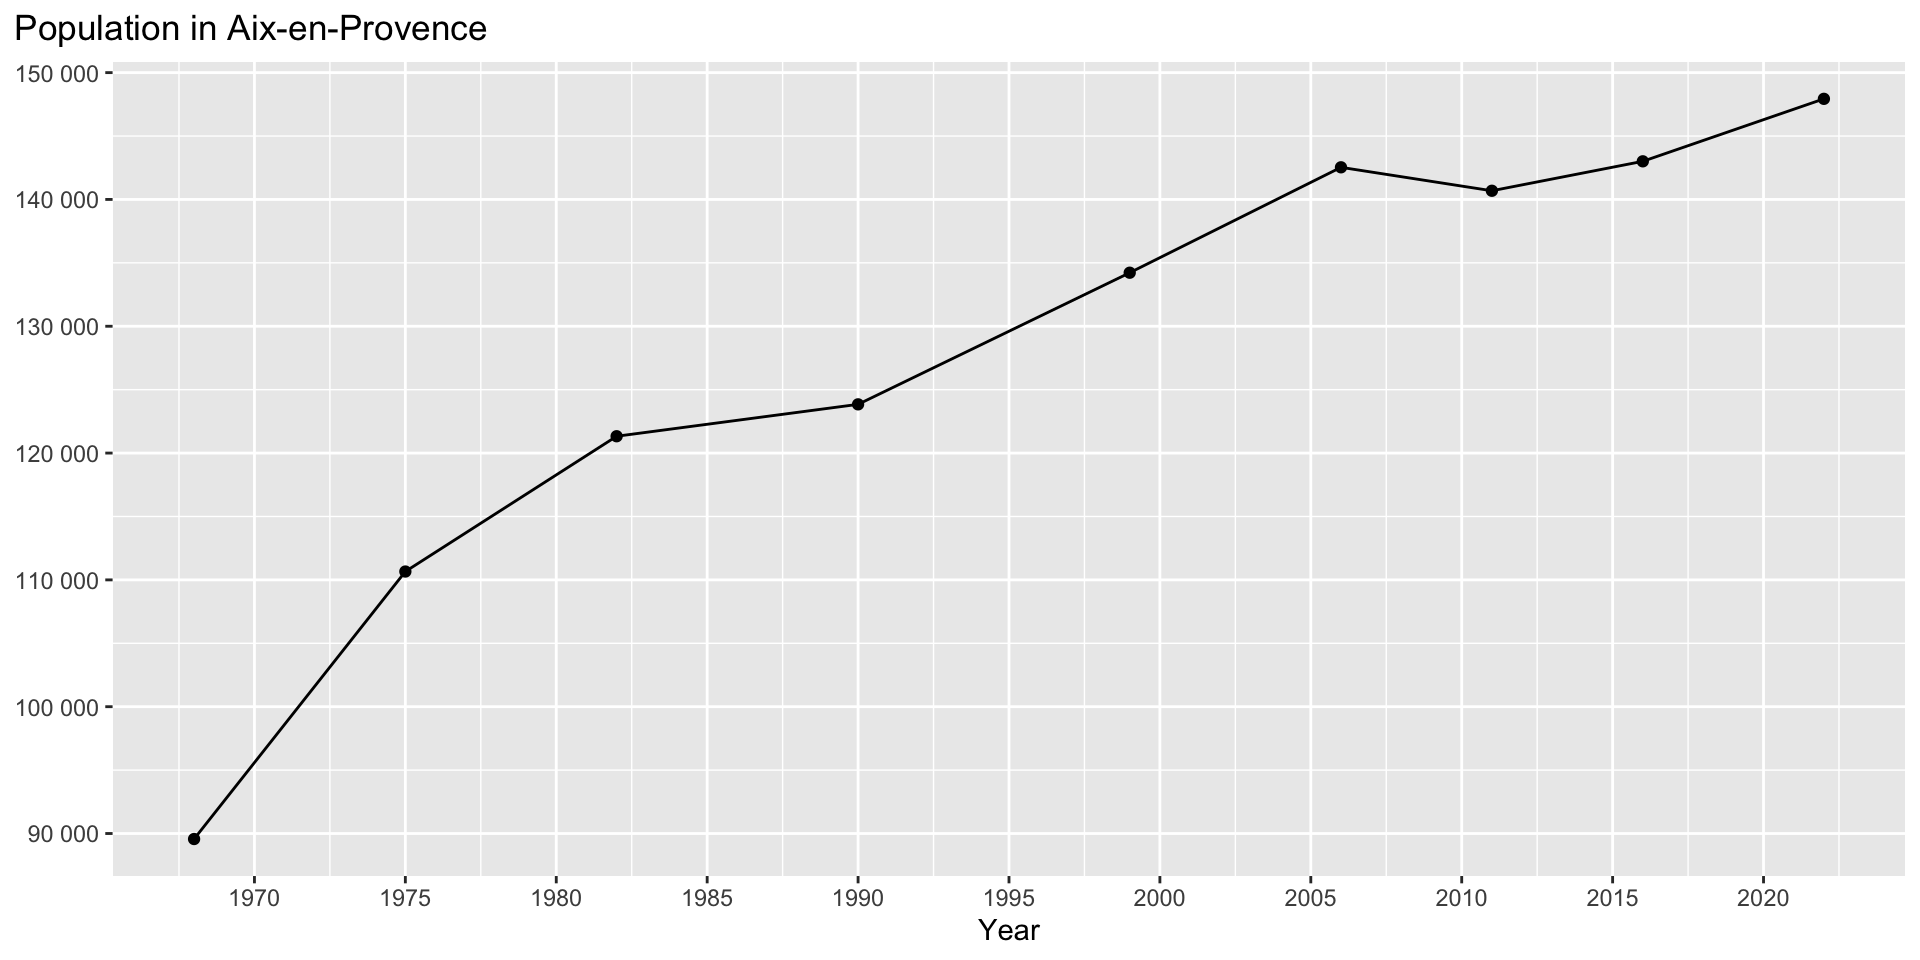
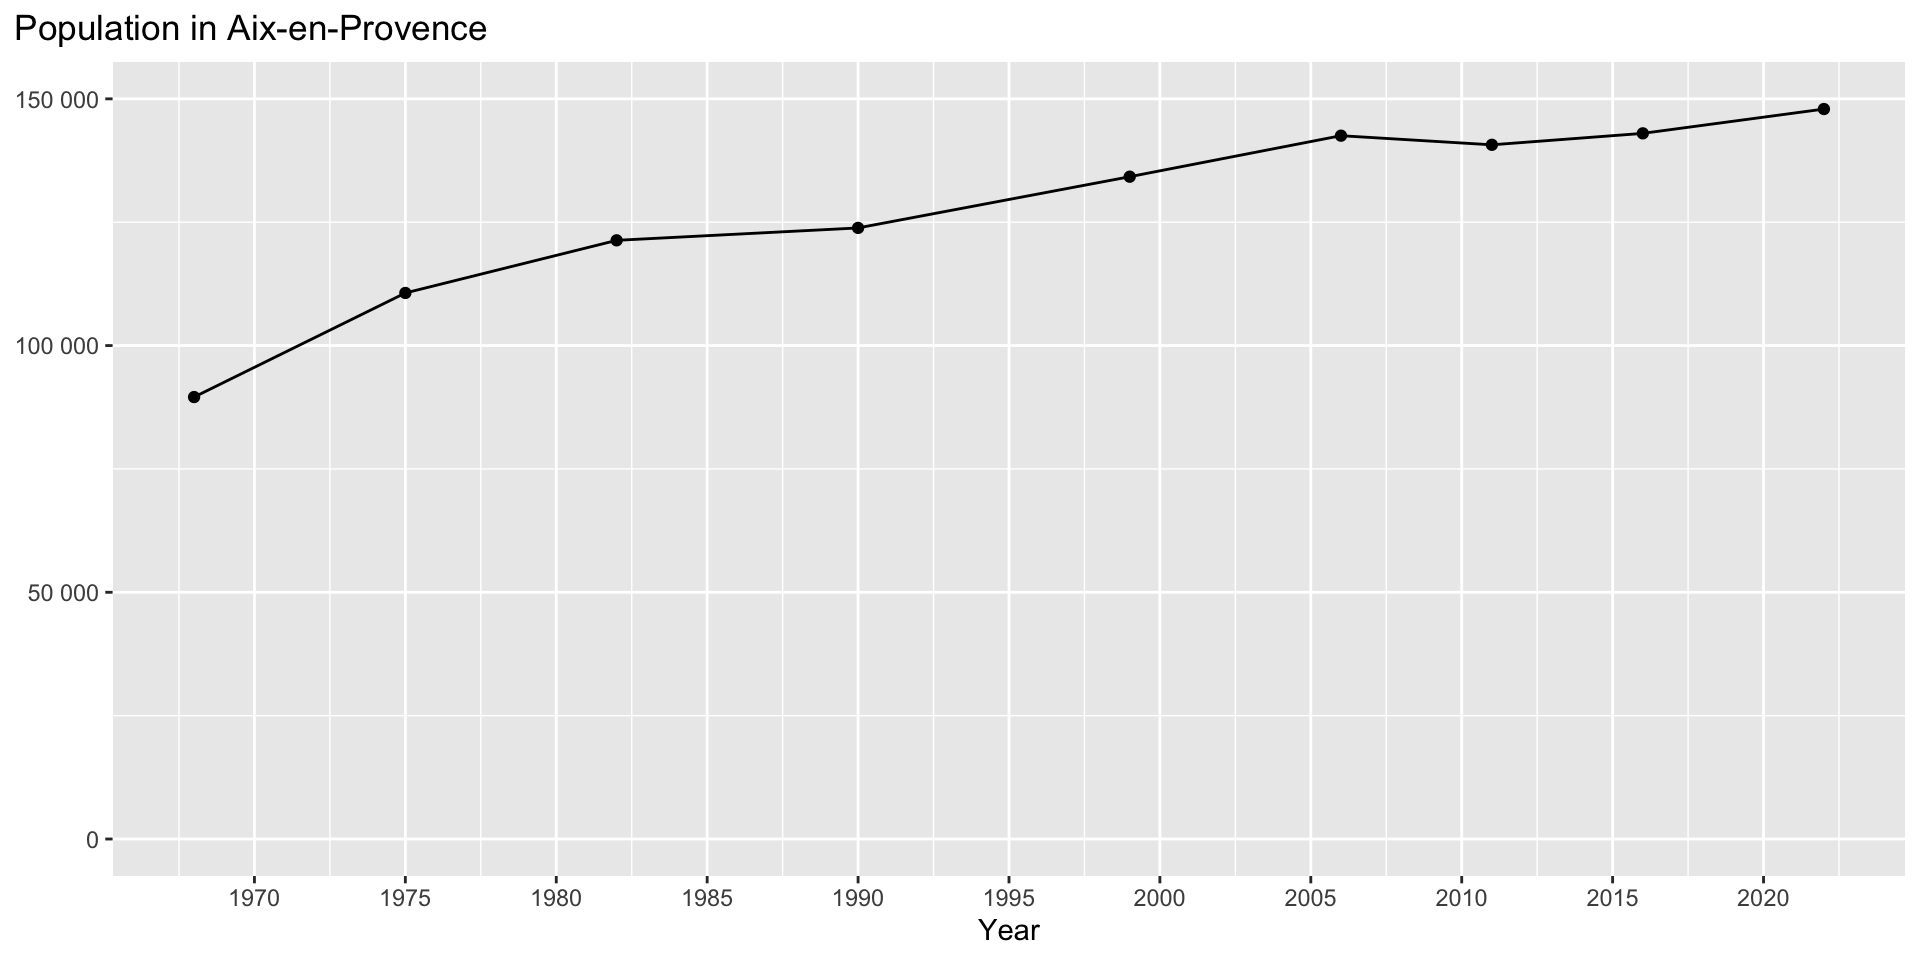
correction of y-axis + definitions of some terms

diff --git a/session-1/seance_1.html b/session-1/seance_1.html
@@ -580,7 +580,7 @@
 <h2>Exercise</h2>
 <div class="cell">
 <div class="cell-output-display">
-<countdown-timer class="countdown" id="timer_20508c1f" minutes="10" seconds="0" update-every="1" tabindex="0" style="top:0%;right:5%;--countdown-font-size:1.8em;--countdown-color-border:#0d6efd;--countdown-color-text:#0d6efd;"></countdown-timer>
+<countdown-timer class="countdown" id="timer_aaad0a46" minutes="10" seconds="0" update-every="1" tabindex="0" style="top:0%;right:5%;--countdown-font-size:1.8em;--countdown-color-border:#0d6efd;--countdown-color-text:#0d6efd;"></countdown-timer>
 </div>
 </div>
 <ol type="1">
@@ -701,6 +701,10 @@
 <div class="columns">
 <div class="column" style="width:40%;">
 <p>Data analyses are also used to take decisions.</p>
+<ul>
+<li>CTR: Click through rate, i.e., number of clics divided by number of impression.</li>
+<li>CPA: Cost per action, i.e., total marketing cost divided by the total number of actions achieved.</li>
+</ul>
 </div><div class="column" style="width:60%;">
 <div class="quarto-figure quarto-figure-center">
 <figure>
@@ -1261,7 +1265,7 @@
 <h2>Set Your RStudio Project</h2>
 <div class="cell">
 <div class="cell-output-display">
-<countdown-timer class="countdown" id="timer_708fcac2" minutes="5" seconds="0" update-every="1" tabindex="0" style="top:0%;right:5%;--countdown-font-size:1.8em;--countdown-color-border:#0d6efd;--countdown-color-text:#0d6efd;"></countdown-timer>
+<countdown-timer class="countdown" id="timer_ee5da60b" minutes="5" seconds="0" update-every="1" tabindex="0" style="top:0%;right:5%;--countdown-font-size:1.8em;--countdown-color-border:#0d6efd;--countdown-color-text:#0d6efd;"></countdown-timer>
 </div>
 </div>
 <div class="columns">
